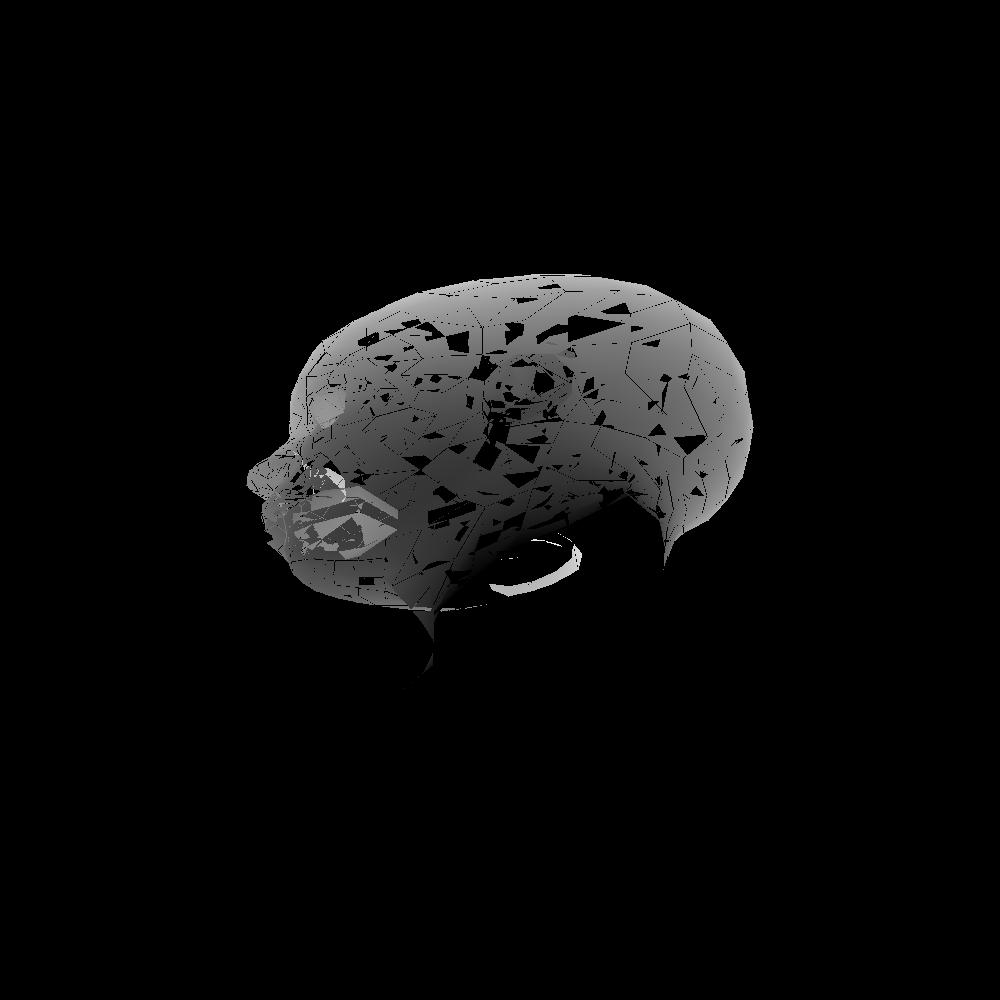
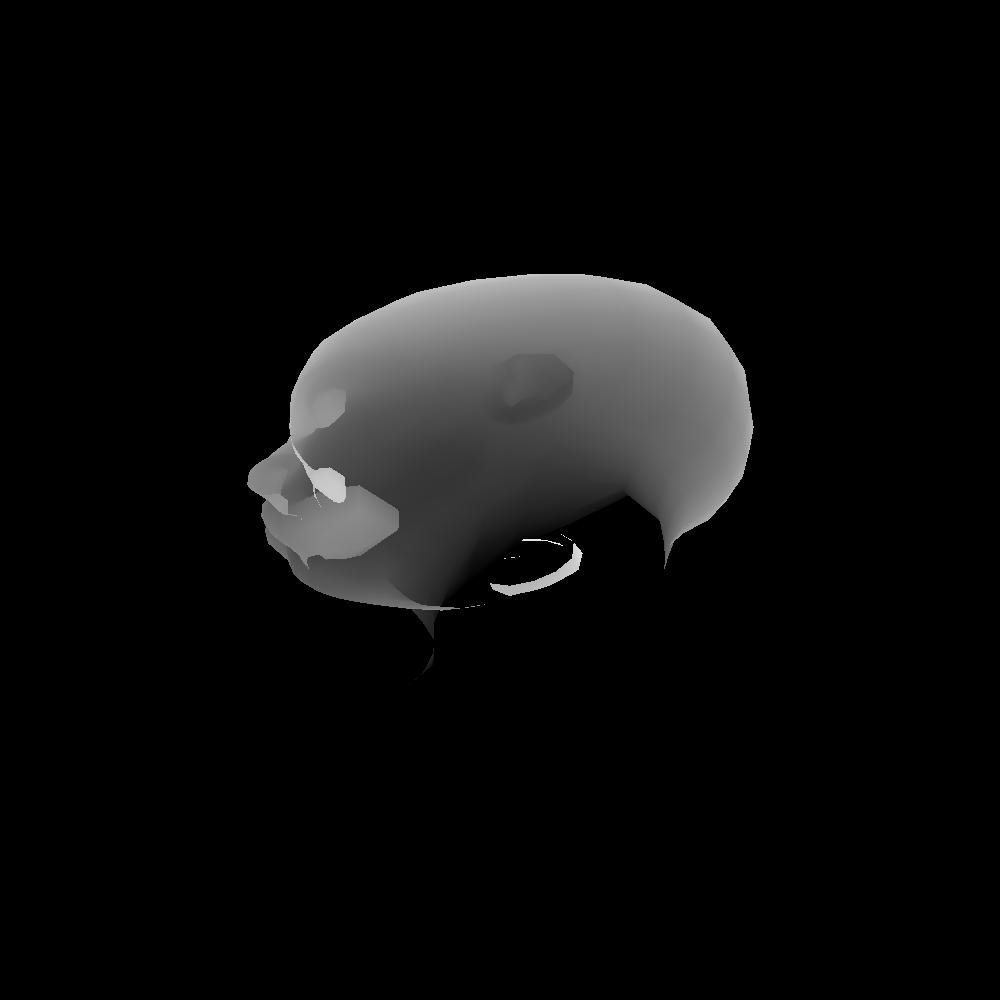
draw triangle

diff --git a/src/com/vssekorin/thrdimviz/Application.java b/src/com/vssekorin/thrdimviz/Application.java
@@ -128,8 +128,8 @@ public final class Application {
             }
         }
         int color = 0;
-        for (float x = min[0]; x < max[0]; x++) {
-            for (float y = min[1]; y < max[1]; y++) {
+        for (int x = (int)min[0]; x < max[0]; x++) {
+            for (int y = (int)min[1]; y < max[1]; y++) {
                 final float[] c = barycentric(
                     Vector.lowLength(Vector.div(coords[0], coords[0][3]), 2),
                     Vector.lowLength(Vector.div(coords[1], coords[1][3]), 2),
@@ -139,13 +139,13 @@ public final class Application {
                 final float z = coords[0][2] * c[0] + coords[1][2] * c[1] + coords[2][2] * c[2];
                 final float w = coords[0][3] * c[0] + coords[1][3] * c[1] + coords[2][3] * c[2];
                 final int fd = (int) (z / w);
-                if (c[0] < 0 || c[1] < 0 || c[2] < 0 || buffer[(int) (x + y * size)] > fd) {
+                if (c[0] < 0 || c[1] < 0 || c[2] < 0 || buffer[x + y * size] > fd) {
                     continue;
                 }
                 Object[] discardAndColor = shader.fragment(c, color);
                 if (!(boolean) discardAndColor[0] && x < 1000 && y < 1000 && x > 0 && y > 0) {
-                    buffer[(int) (x + y * size)] = fd;
-                    image.setRGB((int) x, (int) y, (int)discardAndColor[1]);
+                    buffer[x + y * size] = fd;
+                    image.setRGB(x, y, (int)discardAndColor[1]);
                 }
             }
         }
